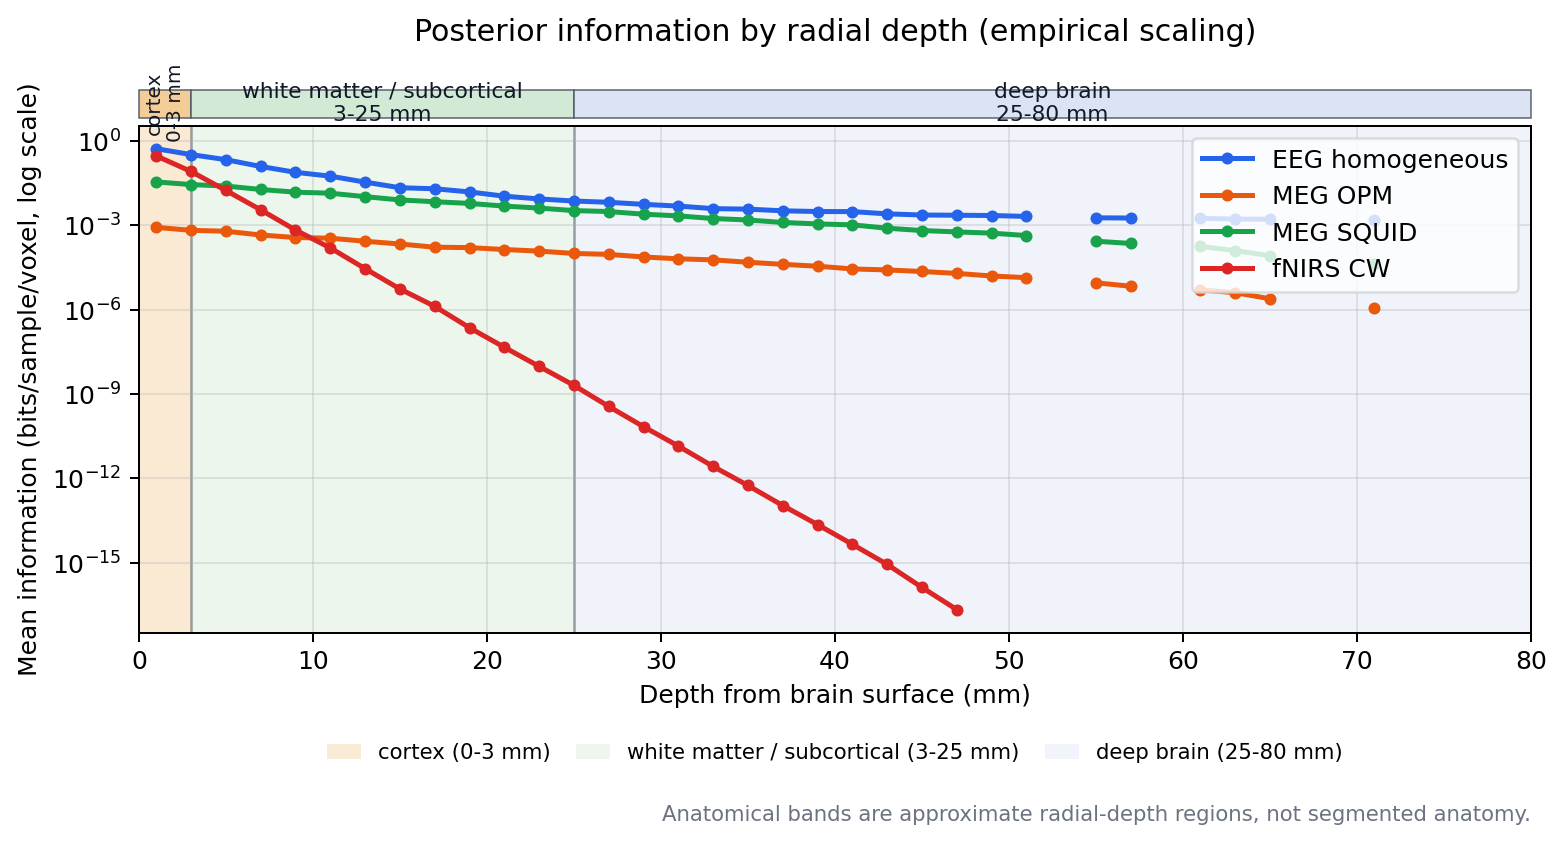
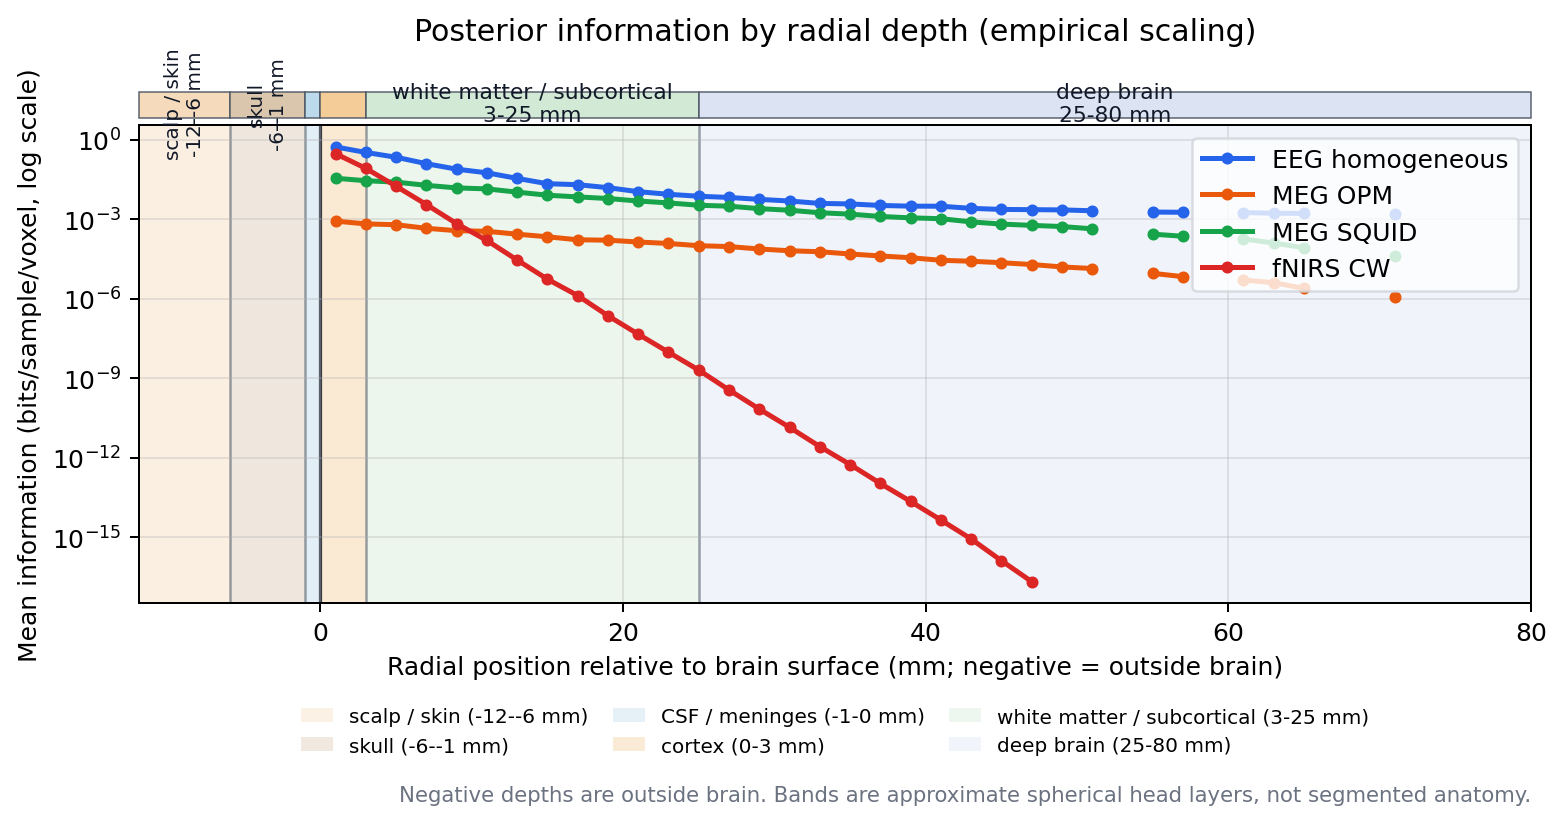
Show head layers on depth plots

diff --git a/compute_information_maps.py b/compute_information_maps.py
@@ -30,7 +30,14 @@ from matplotlib.patches import Patch, Rectangle
 import numpy as np
 from scipy.linalg import cho_factor, cho_solve
 
-from guti.core import BRAIN_RADIUS, get_grid_positions, get_sensor_positions
+from guti.core import (
+    BRAIN_RADIUS,
+    CSF_RADIUS,
+    SCALP_RADIUS,
+    SKULL_RADIUS,
+    get_grid_positions,
+    get_sensor_positions,
+)
 from guti.modalities.fnirs_analytical.modality import fNIRSAnalytical
 from guti.noise_models import (
     compute_detector_noise_std,
@@ -43,6 +50,7 @@ from recompute_meg_variants import compute_forward_matrix as compute_meg_forward
 
 OUT_DIR = Path("results/information_maps")
 HEAD_CENTER = np.array([BRAIN_RADIUS, BRAIN_RADIUS, 0.0])
+OUTER_SCALP_DEPTH_MM = BRAIN_RADIUS - SCALP_RADIUS
 SCALING_CHOICES = ("empirical", "physical")
 DEFAULT_SCALING = "empirical"
 COMPARISON_LABELS = {
@@ -58,6 +66,24 @@ MODALITY_COLORS = {
     "fNIRS CW": "#dc2626",
 }
 ANATOMICAL_DEPTH_BANDS = [
+    {
+        "label": "scalp / skin",
+        "start_mm": float(BRAIN_RADIUS - SCALP_RADIUS),
+        "end_mm": float(BRAIN_RADIUS - SKULL_RADIUS),
+        "color": "#f5d7b5",
+    },
+    {
+        "label": "skull",
+        "start_mm": float(BRAIN_RADIUS - SKULL_RADIUS),
+        "end_mm": float(BRAIN_RADIUS - CSF_RADIUS),
+        "color": "#d7c2a6",
+    },
+    {
+        "label": "CSF / meninges",
+        "start_mm": float(BRAIN_RADIUS - CSF_RADIUS),
+        "end_mm": 0.0,
+        "color": "#b7d7ea",
+    },
     {
         "label": "cortex",
         "start_mm": 0.0,
@@ -278,9 +304,9 @@ def plot_depth_profile(name: str, profile: dict[str, np.ndarray]) -> None:
         else:
             ax.set_ylabel("Information (bits/sample/voxel)")
 
-        ax.set_xlabel("Depth from brain surface (mm)")
+        ax.set_xlabel("Radial position relative to brain surface (mm; negative = outside brain)")
         ax.set_title(f"{name}: information by radial depth", pad=34)
-        ax.set_xlim(0, BRAIN_RADIUS)
+        ax.set_xlim(OUTER_SCALP_DEPTH_MM, BRAIN_RADIUS)
         ax.grid(True, alpha=0.3, which="both")
         add_plot_legends(ax)
         fig.tight_layout()
@@ -326,25 +352,27 @@ def add_anatomy_depth_bands(ax) -> None:
             )
         )
 
-        label = f"{band['label']}\n{start:g}-{end:g} mm"
-        ax.text(
-            start + width / 2,
-            1.045,
-            label,
-            transform=xaxis_transform,
-            ha="center",
-            va="center",
-            rotation=90 if width < 8 else 0,
-            fontsize=8.0 if width < 8 else 8.7,
-            color="#111827",
-            clip_on=False,
-            zorder=6,
-        )
+        if width >= 5:
+            label = f"{band['label']}\n{start:g}-{end:g} mm"
+            ax.text(
+                start + width / 2,
+                1.045,
+                label,
+                transform=xaxis_transform,
+                ha="center",
+                va="center",
+                rotation=90 if width < 8 else 0,
+                fontsize=8.0 if width < 8 else 8.7,
+                color="#111827",
+                clip_on=False,
+                zorder=6,
+            )
 
+    ax.axvline(0, color="#111827", linewidth=1.3, alpha=0.75, zorder=1)
     ax.text(
         1.0,
-        -0.34,
-        "Anatomical bands are approximate radial-depth regions, not segmented anatomy.",
+        -0.38,
+        "Negative depths are outside brain. Bands are approximate spherical head layers, not segmented anatomy.",
         transform=ax.transAxes,
         ha="right",
         va="top",
@@ -367,7 +395,7 @@ def add_plot_legends(ax) -> None:
         bbox_to_anchor=(0.5, -0.18),
         ncol=3,
         frameon=False,
-        fontsize=8.5,
+        fontsize=8.0,
         columnspacing=1.2,
         handlelength=1.6,
     )
@@ -411,9 +439,9 @@ def plot_combined_depth_profiles(paths: list[Path], scaling: str) -> None:
         else:
             ax.set_ylabel("Mean information (bits/sample/voxel)")
 
-        ax.set_xlabel("Depth from brain surface (mm)")
+        ax.set_xlabel("Radial position relative to brain surface (mm; negative = outside brain)")
         ax.set_title(f"Posterior information by radial depth ({scaling} scaling)", pad=34)
-        ax.set_xlim(0, BRAIN_RADIUS)
+        ax.set_xlim(OUTER_SCALP_DEPTH_MM, BRAIN_RADIUS)
         ax.grid(True, alpha=0.3, which="both")
         add_plot_legends(ax)
         fig.tight_layout()
